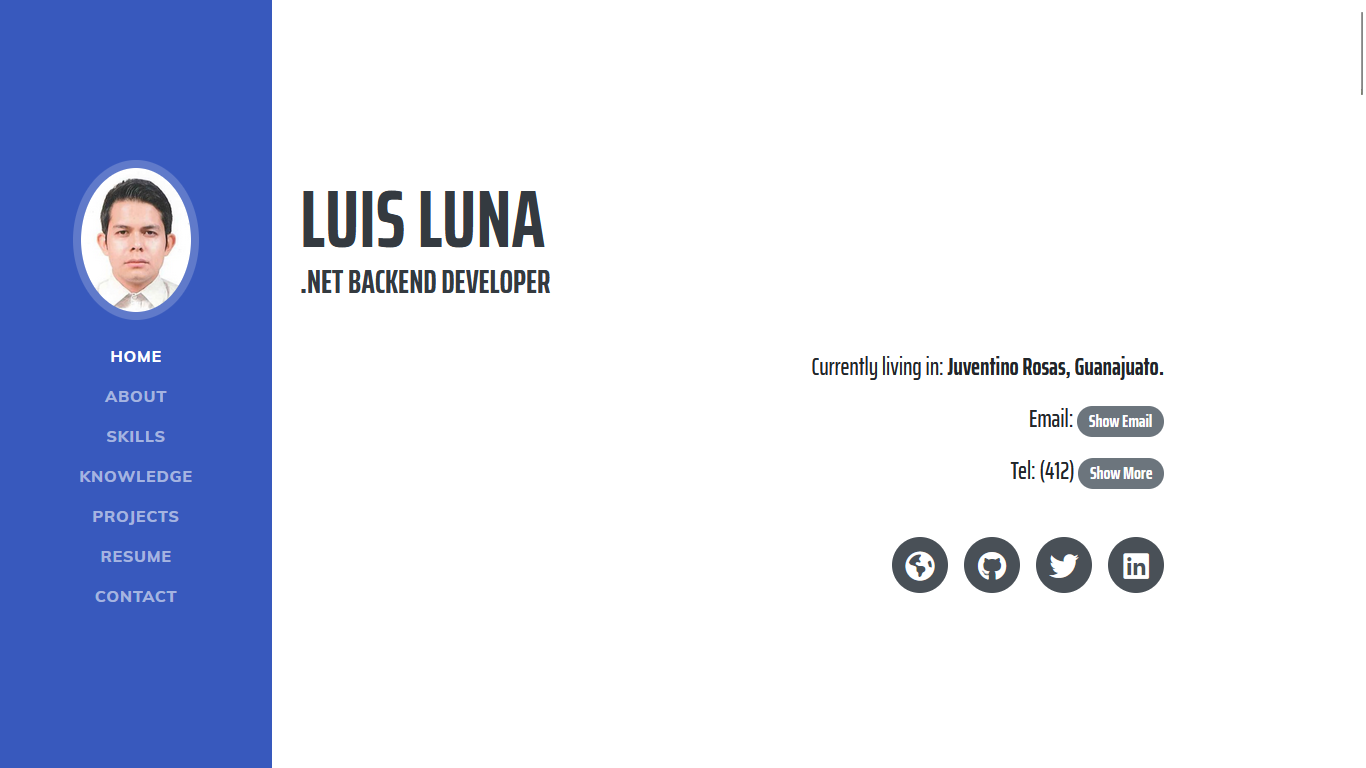
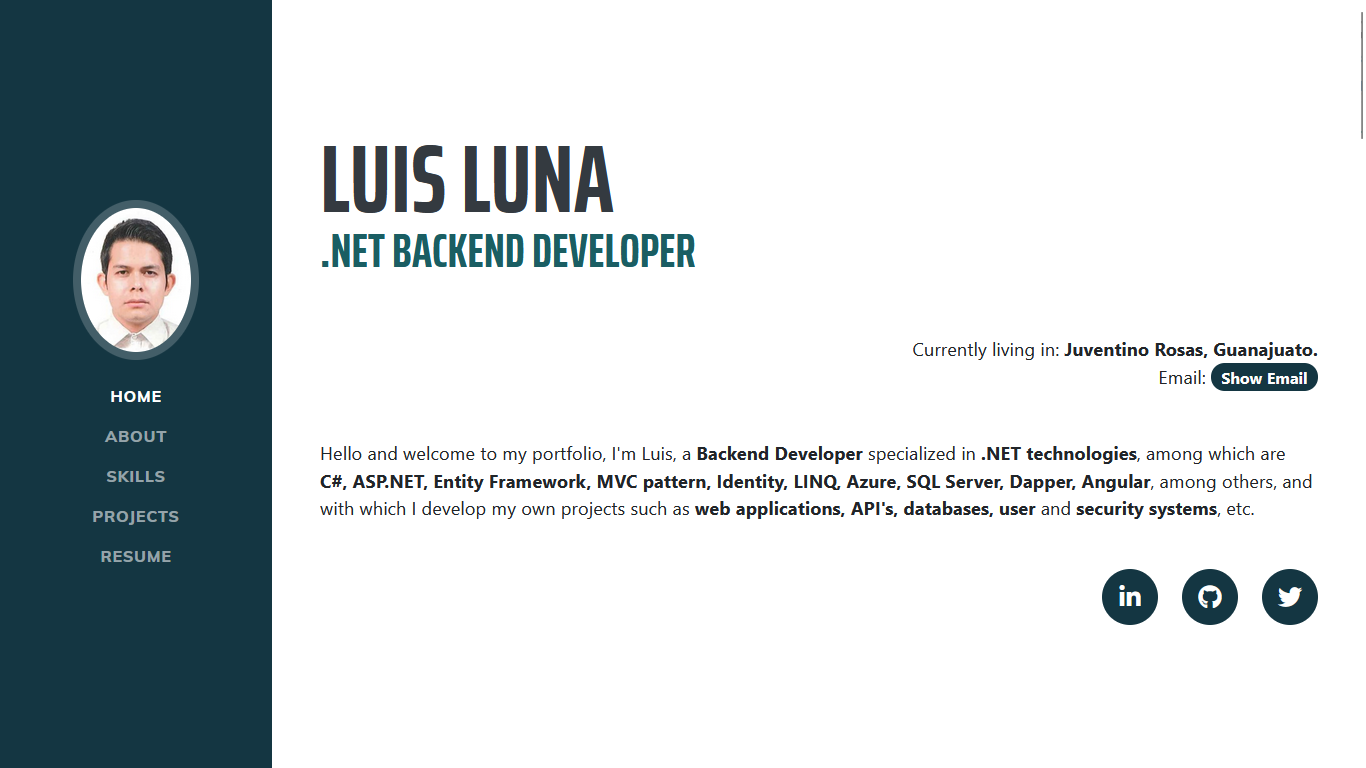
Hidden unused sections

Changed region(s): [[0.0, 0.0, 0.9839, 1.0], [0.5842, 0.4375, 0.9839, 0.5312]]

diff --git a/PortafolioUI/src/app/projects/projects.component.ts b/PortafolioUI/src/app/projects/projects.component.ts
@@ -25,7 +25,7 @@ export class ProjectsComponent implements OnInit {
         './assets/images/logos/JQUERY_logo.png',
       ],
       imageURL: './assets/images/ExpenseControlScreenshoot.png',
-      link: 'https://github.com/luisjavierluna/ExpenseControl_ASP.NET/commits/master',
+      link: 'https://github.com/luisjavierluna',
       githublink: 'https://github.com/luisjavierluna/ExpenseControl_ASP.NET'
     },
     {
@@ -41,8 +41,8 @@ export class ProjectsComponent implements OnInit {
         './assets/images/logos/BOOTSTRAP_logo.png',
       ],
       imageURL: './assets/images/MoviesScreenshoot.png',
-      link: 'https://github.com/luisjavierluna/ExpenseControl_ASP.NET/commits/master',
-      githublink: 'https://github.com/luisjavierluna/ExpenseControl_ASP.NET'
+      link: 'https://github.com/luisjavierluna',
+      githublink: 'https://github.com/luisjavierluna/Movies'
     },
     {
       projectTitle: 'Portfolio',
@@ -59,60 +59,9 @@ export class ProjectsComponent implements OnInit {
         './assets/images/logos/BOOTSTRAP_logo.png',
       ],
       imageURL: './assets/images/PortfolioScreenshoot.png',
-      link: 'https://github.com/luisjavierluna/ExpenseControl_ASP.NET/commits/master',
-      githublink: 'https://github.com/luisjavierluna/ExpenseControl_ASP.NET'
-    },
-    {
-      projectTitle: 'Expense Control',
-      shortDescription: 'Income and expense application made with ASP.NET Core',
-      longDescription: 'Expense Control is a system that allows you to track all the expenses and incomes you have more control to take better decitions according to your current situation',
-      tecnologies: [
-        './assets/images/logos/C_SHARP_logo.png',
-        './assets/images/logos/NET_CORE_logo.png',
-        './assets/images/logos/SQL_logo.png',
-        './assets/images/logos/HTML_logo.png',
-        './assets/images/logos/CSS_logo.png',
-        './assets/images/logos/BOOTSTRAP_logo.png',
-        './assets/images/logos/JQUERY_logo.png',
-      ],
-      imageURL: './assets/images/ExpenseControlScreenshoot.png',
-      link: 'https://github.com/luisjavierluna/ExpenseControl_ASP.NET/commits/master',
-      githublink: 'https://github.com/luisjavierluna/ExpenseControl_ASP.NET'
-    },
-    {
-      projectTitle: 'Movies',
-      shortDescription: 'App made with Angular and Server made with ASP.NET core',
-      longDescription: 'Movies is a web site that shows the current and future most important movie releases',
-      tecnologies: [
-        './assets/images/logos/C_SHARP_logo.png',
-        './assets/images/logos/NET_CORE_logo.png',
-        './assets/images/logos/SQL_logo.png',
-        './assets/images/logos/Angular_logo.png',
-        './assets/images/logos/Typescript_logo.png',
-        './assets/images/logos/BOOTSTRAP_logo.png',
-      ],
-      imageURL: './assets/images/MoviesScreenshoot.png',
-      link: 'https://github.com/luisjavierluna/ExpenseControl_ASP.NET/commits/master',
-      githublink: 'https://github.com/luisjavierluna/ExpenseControl_ASP.NET'
-    },
-    {
-      projectTitle: 'Portfolio',
-      shortDescription: 'Web page made with Angular and ASP.NET Core',
-      longDescription: 'Portfolio is my personal web page where I show the project I am working on and those I worked on',
-      tecnologies: [
-        './assets/images/logos/Angular_logo.png',
-        './assets/images/logos/Typescript_logo.png',
-        './assets/images/logos/C_SHARP_logo.png',
-        './assets/images/logos/NET_CORE_logo.png',
-        './assets/images/logos/SQL_logo.png',
-        './assets/images/logos/HTML_logo.png',
-        './assets/images/logos/CSS_logo.png',
-        './assets/images/logos/BOOTSTRAP_logo.png',
-      ],
-      imageURL: './assets/images/PortfolioScreenshoot.png',
-      link: 'https://github.com/luisjavierluna/ExpenseControl_ASP.NET/commits/master',
-      githublink: 'https://github.com/luisjavierluna/ExpenseControl_ASP.NET'
-    },
+      link: 'https://github.com/luisjavierluna',
+      githublink: 'https://github.com/luisjavierluna/Portfolio'
+    }
   ]
 
 

diff --git a/PortafolioUI/src/app/home/home.component.html b/PortafolioUI/src/app/home/home.component.html
@@ -19,7 +19,7 @@
 
             </div>
 
-            <div>
+            <!-- <div>
                 Tel: <span *ngIf="!numberInSight">(412) </span>
                 <button class="badge rounded-pill showButton" (click)="showNumber()" *ngIf="!numberInSight">
                     Show More
@@ -28,7 +28,7 @@
                 <span class="hidden-data" *ngIf="numberInSight">
                     Plase send me an email or use the contact form at the botton of this page asking for it
                 </span>
-            </div>
+            </div> -->
         </div>
 
         <p class="lead mb-5">

diff --git a/PortafolioUI/src/app/app.component.html b/PortafolioUI/src/app/app.component.html
@@ -14,7 +14,7 @@
           <li class="nav-item"><a class="nav-link js-scroll-trigger" href="#skills">Skills</a></li>
           <li class="nav-item"><a class="nav-link js-scroll-trigger" href="#projects">Projects</a></li>
           <li class="nav-item"><a class="nav-link js-scroll-trigger" href="#resume">Resume</a></li>
-          <li class="nav-item"><a class="nav-link js-scroll-trigger" href="#contact">Contact</a></li>
+          <!-- <li class="nav-item"><a class="nav-link js-scroll-trigger" href="#contact">Contact</a></li> -->
       </ul>
   </div>
 </nav>

diff --git a/PortafolioUI/src/app/landing-page/landing-page.component.html b/PortafolioUI/src/app/landing-page/landing-page.component.html
@@ -16,6 +16,6 @@
 
 <app-resume></app-resume>
 
-<hr class="m-0">
+<!-- <hr class="m-0">
 
-<app-contact></app-contact>
+<app-contact></app-contact> -->
